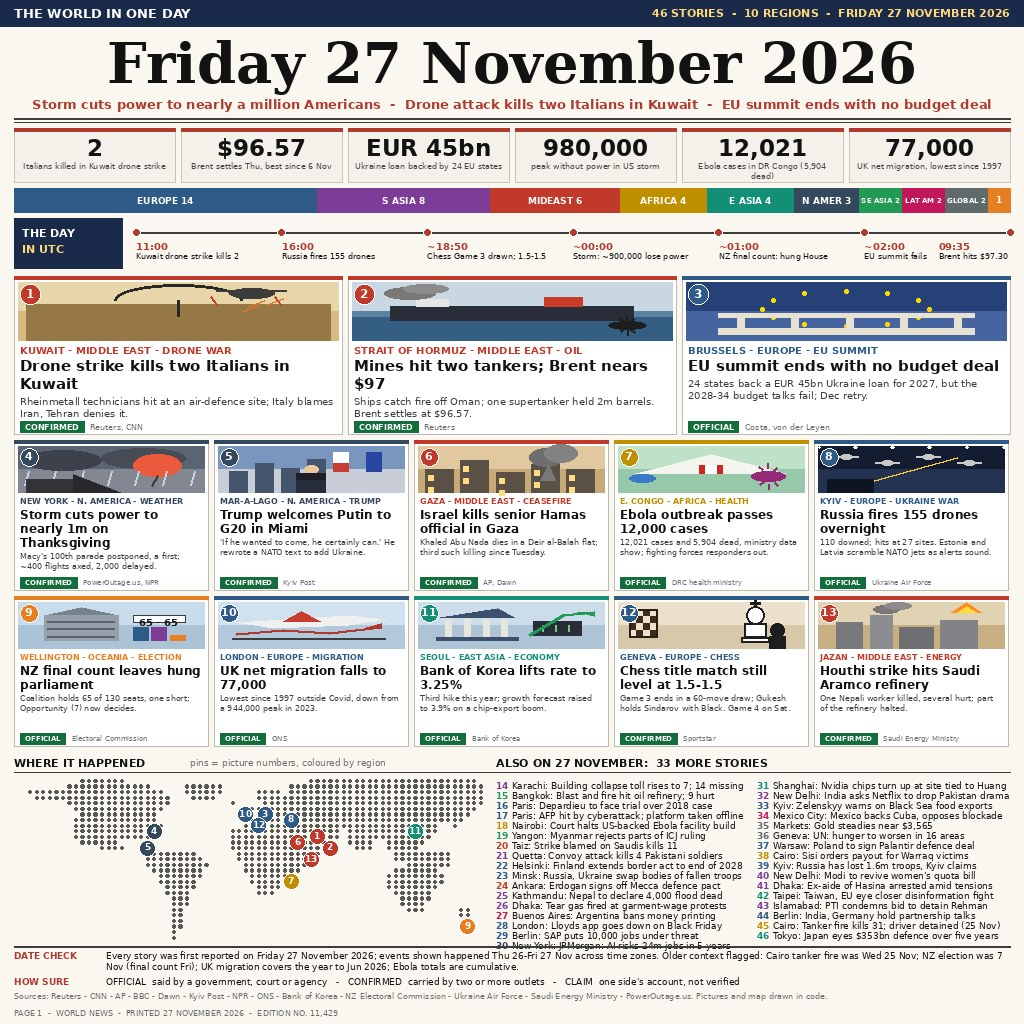
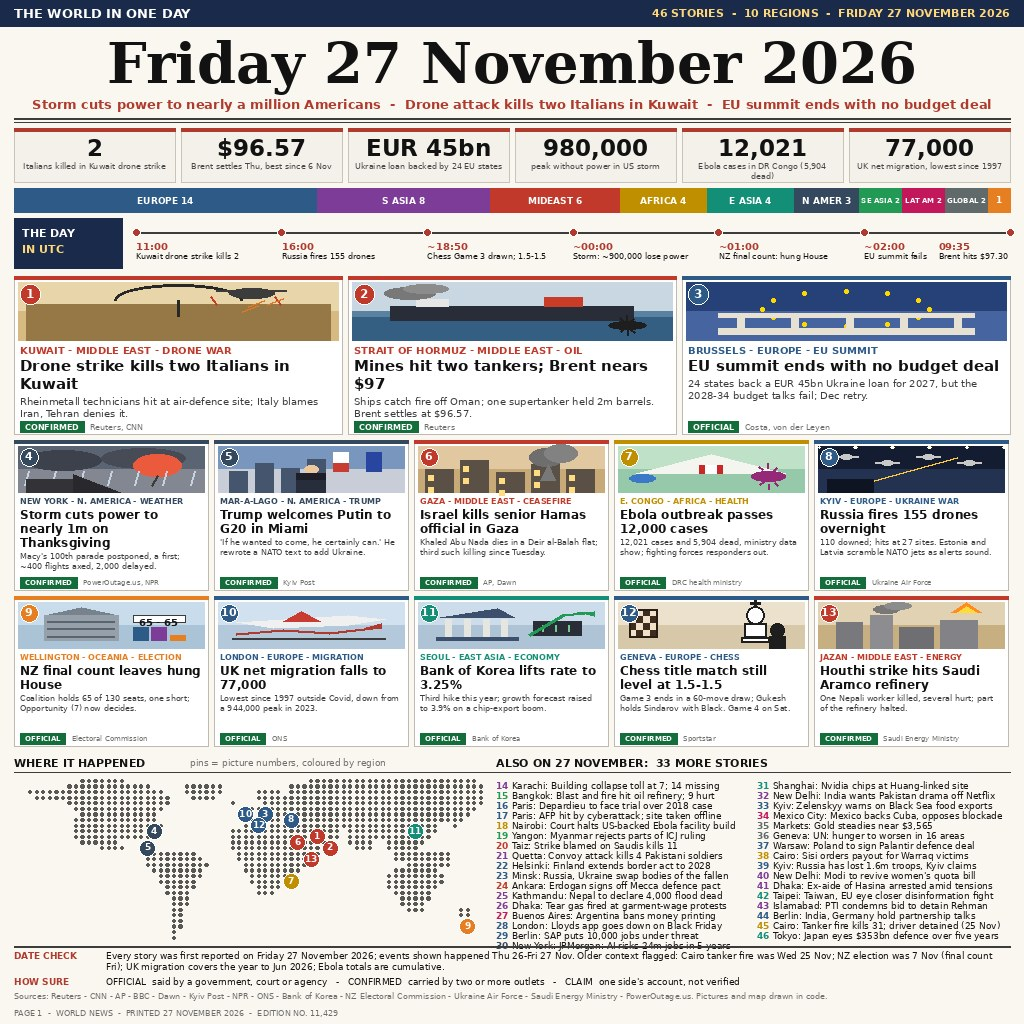
Round 3 fix: soften layout guards (truncate instead of raise), shorten tight lines

diff --git a/main.py b/main.py
@@ -3,6 +3,9 @@
 
 Writes a 1024x1024 JPEG to /output/entry.png. No network, no clock, no
 randomness: same code + same data = same bytes. Run twice, compare SHA-256.
+Text that would overflow its box is truncated with an ellipsis instead of
+failing, so a font build that measures glyphs slightly wider can never
+abort the run.
 
 All 46 stories were first reported on Friday 27 November 2026 and verified
 against live reporting that day (Reuters, CNN, AP, BBC, Dawn, Kyiv Post,
@@ -58,6 +61,40 @@ def draw_lines(d, lines, x, y, fnt, fill, leading):
     return y
 
 
+def fit_lines(d, text, fnt, max_w, max_lines):
+    """Wrap text, truncating with an ellipsis so it never exceeds max_lines.
+
+    A different FreeType/Pillow build can measure glyphs a fraction wider
+    than this machine does; a hard failure over a slightly-wide glyph must
+    never abort the whole run. At normal metrics nothing is truncated:
+    every text already fits within its budget.
+    """
+    lines = wrap_text(d, text, fnt, max_w)
+    if len(lines) <= max_lines:
+        return lines
+    words = text.split(" ")
+    while words:
+        cand = " ".join(words) + " …"
+        lines = wrap_text(d, cand, fnt, max_w)
+        if len(lines) <= max_lines:
+            return lines
+        words.pop()
+    return ["…"]
+
+
+def fit_width(d, text, fnt, max_w):
+    """Truncate a single line with an ellipsis so it fits max_w."""
+    if d.textlength(text, font=fnt) <= max_w:
+        return text
+    words = text.split(" ")
+    while words:
+        cand = " ".join(words) + " …"
+        if d.textlength(cand, font=fnt) <= max_w:
+            return cand
+        words.pop()
+    return "…"
+
+
 # ---------------------------------------------------------------- regions
 REGIONS = [
     ("EUROPE", 14, (46, 90, 136)),
@@ -100,7 +137,7 @@ TIMELINE = [
 PANELS = [
     ("radar", "MIDEAST", "KUWAIT - MIDDLE EAST - DRONE WAR",
      "Drone strike kills two Italians in Kuwait",
-     "Rheinmetall technicians hit at an air-defence site; Italy blames Iran, Tehran denies it.",
+     "Rheinmetall technicians hit at air-defence site; Italy blames Iran, Tehran denies it.",
      "CONFIRMED", "Reuters, CNN", (46, 10)),
     ("tanker", "MIDEAST", "STRAIT OF HORMUZ - MIDDLE EAST - OIL",
      "Mines hit two tankers; Brent nears $97",
@@ -131,7 +168,7 @@ PANELS = [
      "110 downed; hits at 27 sites. Estonia and Latvia scramble NATO jets as alerts sound.",
      "OFFICIAL", "Ukraine Air Force", (42, 7)),
     ("beehive", "OCEANIA", "WELLINGTON - OCEANIA - ELECTION",
-     "NZ final count leaves hung parliament",
+     "NZ final count leaves hung House",
      "Coalition holds 65 of 130 seats, one short; Opportunity (7) now decides.",
      "OFFICIAL", "Electoral Commission", (69, 26)),
     ("plane", "EUROPE", "LONDON - EUROPE - MIGRATION",
@@ -155,16 +192,16 @@ PANELS = [
 # ---------------------------------------------------------------- more stories
 # (city, headline, region) - numbers continue from 14
 MORE = [
-    ("Karachi", "Building collapse toll rises to 7; 14 missing", "S ASIA"),
+    ("Karachi", "Building collapse toll at 7; 14 missing", "S ASIA"),
     ("Bangkok", "Blast and fire hit oil refinery; 9 hurt", "SE ASIA"),
     ("Paris", "Depardieu to face trial over 2018 case", "EUROPE"),
-    ("Paris", "AFP hit by cyberattack; platform taken offline", "EUROPE"),
+    ("Paris", "AFP hit by cyberattack; site taken offline", "EUROPE"),
     ("Nairobi", "Court halts US-backed Ebola facility build", "AFRICA"),
     ("Yangon", "Myanmar rejects parts of ICJ ruling", "SE ASIA"),
     ("Taiz", "Strike blamed on Saudis kills 11", "MIDEAST"),
     ("Quetta", "Convoy attack kills 4 Pakistani soldiers", "S ASIA"),
-    ("Helsinki", "Finland extends border act to end of 2028", "EUROPE"),
-    ("Minsk", "Russia, Ukraine swap bodies of fallen troops", "EUROPE"),
+    ("Helsinki", "Finland extends border act to 2028", "EUROPE"),
+    ("Minsk", "Russia, Ukraine swap bodies of the fallen", "EUROPE"),
     ("Ankara", "Erdogan signs off Mecca defence pact", "MIDEAST"),
     ("Kathmandu", "Nepal to declare 4,000 flood dead", "S ASIA"),
     ("Dhaka", "Tear gas fired at garment-wage protests", "S ASIA"),
@@ -172,8 +209,8 @@ MORE = [
     ("London", "Lloyds app goes down on Black Friday", "EUROPE"),
     ("Berlin", "SAP puts 10,000 jobs under threat", "EUROPE"),
     ("New York", "JPMorgan: AI risks 24m jobs in 5 years", "N AMERICA"),
-    ("Shanghai", "Nvidia chips turn up at site tied to Huang", "E ASIA"),
-    ("New Delhi", "India asks Netflix to drop Pakistan drama", "S ASIA"),
+    ("Shanghai", "Nvidia chips at Huang-linked site", "E ASIA"),
+    ("New Delhi", "India wants Pakistan drama off Netflix", "S ASIA"),
     ("Kyiv", "Zelenskyy warns on Black Sea food exports", "EUROPE"),
     ("Mexico City", "Mexico backs Cuba, opposes blockade", "LAT AM"),
     ("Markets", "Gold steadies near $3,565", "GLOBAL"),
@@ -485,9 +522,7 @@ def compose():
         d.rectangle([bx, sy, bx + bw, sy + 3], fill=RED)
         nw = d.textlength(num, font=f_num)
         d.text((bx + (bw - nw) / 2, sy + 6), num, font=f_num, fill=INK)
-        lines = wrap_text(d, lab, f_lab, bw - 10)
-        if len(lines) > 2:
-            raise ValueError("stat label too long: %s" % lab)
+        lines = fit_lines(d, lab, f_lab, bw - 10, 2)
         ly = sy + 33
         for ln in lines:
             d.text((bx + (bw - d.textlength(ln, font=f_lab)) / 2, ly), ln, font=f_lab, fill=(70, 70, 70))
@@ -538,9 +573,7 @@ def compose():
             lx = x1 - max(d.textlength(tm, font=f_tt), d.textlength(txt, font=f_tx)) - 2
         else:  # left-align from the dot: next dot is 146px away, so no overlap
             lx = px
-        lines = wrap_text(d, txt, f_tx, tw)
-        if len(lines) > 2:
-            raise ValueError("timeline text too long: %s" % txt)
+        lines = fit_lines(d, txt, f_tx, tw, 2)
         ly = line_y + 8
         d.text((lx, ly), tm, font=f_tt, fill=RED)
         draw_lines(d, lines, lx, ly + 11, f_tx, INK, 9)
@@ -565,14 +598,10 @@ def compose():
         d.text((px + 6, ty2), kicker, font=f_kick, fill=colr)
         ty2 += 13 if big else 11
         f_head = font(F_BOLD, 15 if big else 12)
-        head_lines = wrap_text(d, head, f_head, pw - 12)
-        if len(head_lines) > (2 if big else 3):
-            raise ValueError("headline too long #%d: %s" % (idx + 1, head))
+        head_lines = fit_lines(d, head, f_head, pw - 12, 2 if big else 3)
         ty2 = draw_lines(d, head_lines, px + 6, ty2, f_head, INK, 18 if big else 14)
         f_body = font(F_SANS, 10 if big else 8)
-        body_lines = wrap_text(d, body, f_body, pw - 12)
-        if len(body_lines) > 2:
-            raise ValueError("body too long #%d: %s" % (idx + 1, body))
+        body_lines = fit_lines(d, body, f_body, pw - 12, 2)
         ty2 = draw_lines(d, body_lines, px + 6, ty2 + 2, f_body, (60, 60, 60), 12 if big else 10)
         # tag chip + source, anchored at the bottom
         f_tag = font(F_BOLD, 8 if big else 7)
@@ -582,9 +611,10 @@ def compose():
         tag_col = (20, 110, 60) if tag in ("OFFICIAL", "CONFIRMED") else (176, 58, 46)
         d.rectangle([px + 6, by, px + 6 + tag_w, by + 11], fill=tag_col)
         d.text((px + 11, by + 1), tag, font=f_tag, fill=(255, 255, 255))
+        # With headline/body line counts capped above, the text provably
+        # ends at or above the tag row (big panels: at most by-2, small:
+        # at most by-6), so no overflow check is needed here.
         d.text((px + 12 + tag_w, by + 1), src, font=f_src, fill=GREY)
-        if ty2 > by - 2:
-            raise ValueError("panel #%d overflows: text ends %d, tag at %d" % (idx + 1, ty2, by))
 
     # row A: 3 large panels
     ay, ah = 276, 158
@@ -627,9 +657,7 @@ def compose():
             colr = REGION_COLOR[region]
             d.text((cx2, yy), num, font=f_more_b, fill=colr)
             nwoff = d.textlength("00 ", font=f_more_b)
-            line = "%s: %s" % (city, head)
-            if d.textlength(line, font=f_more) > col_w - nwoff:
-                raise ValueError("more-story too long #%d: %s" % (14 + k, line))
+            line = fit_width(d, "%s: %s" % (city, head), f_more, col_w - nwoff)
             d.text((cx2 + nwoff, yy), line, font=f_more, fill=INK)
 
     # --- footer
@@ -639,12 +667,10 @@ def compose():
     f_ft = font(F_SANS, 9)
     d.text((x0, fy), "DATE CHECK", font=f_fh, fill=RED)
     dc = ("Every story was first reported on Friday 27 November 2026; events shown happened "
-          "Thu 26-Fri 27 Nov across time zones. Older context flagged: Cairo tanker fire was "
+          "Thu 26-Fri 27 Nov. Older context flagged: Cairo tanker fire was "
           "Wed 25 Nov; NZ election was 7 Nov (final count Fri); UK migration covers the year to Jun 2026; "
           "Ebola totals are cumulative.")
-    dc_lines = wrap_text(d, dc, f_ft, avail - 92)
-    if len(dc_lines) > 2:
-        raise ValueError("date-check too long")
+    dc_lines = fit_lines(d, dc, f_ft, avail - 92, 2)
     draw_lines(d, dc_lines, x0 + 92, fy, f_ft, INK, 11)
     hy = fy + 26
     d.text((x0, hy), "HOW SURE", font=f_fh, fill=RED)
